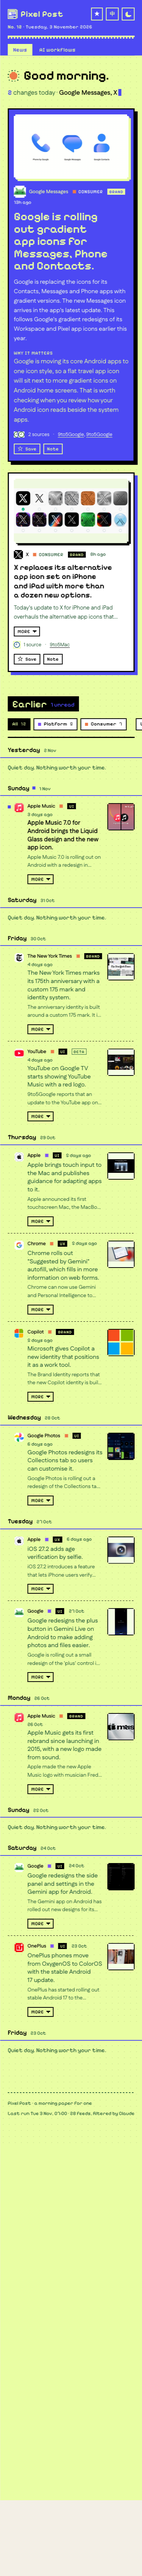
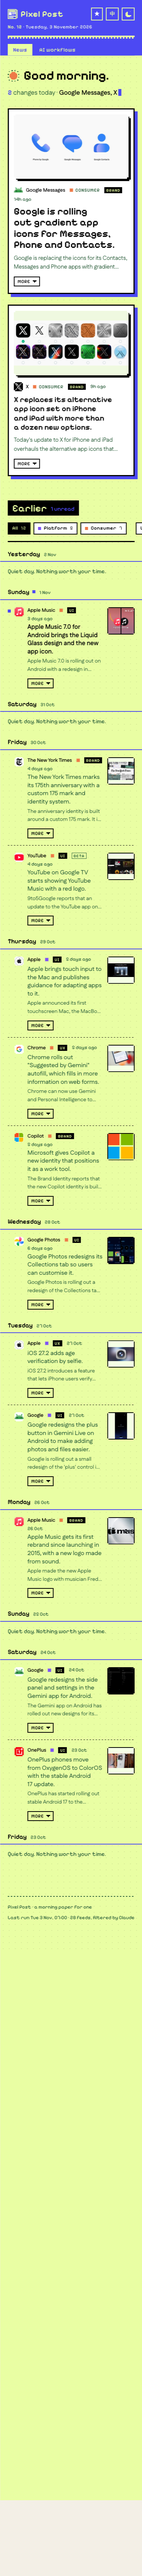
Same card for every story with More/Less; timeline tip centred; Save star and note box fixed; dark mode with a lime masthead and sky accent

diff --git a/site/styles.css b/site/styles.css
@@ -1,8 +1,8 @@
 /* Pixel Post: a morning paper for one, set in pixels.
    Pixelify Sans for display, Fustat for reading. Every colour comes from the reader's palette (Nov 2026), used loud:
-   a lime page, an indigo masthead band, black rules and borders, white cards with hard indigo pixel shadows, the
-   day's first story as an indigo block with lime type. Dark: black page, lime type and borders, the same indigo
-   band and lead. All text is at least 4.5:1 against what is behind it. */
+   a lime page, an indigo masthead band, black rules and borders, white cards with hard indigo pixel shadows,
+   and every story the same card. Dark: black page, lime type and borders, the masthead a lime band with black type,
+   sky for the accent and the pixel shadows. All text is at least 4.5:1 against what is behind it. */
 
 :root {
   --paper: #e9fea3; /* lime */
@@ -24,7 +24,7 @@
   --fill: #000000; /* solid buttons */
   --on-fill: #e9fea3;
   --tile: #ffffff; /* behind logos */
-  --band: #4c49f3; /* masthead and the lead story */
+  --band: #4c49f3; /* the masthead */
   --on-band: #e9fea3;
   --on-band-2: #f5ffe5;
   --on-band-mark: #ffffff;
@@ -50,22 +50,24 @@
   --ink-2: #f5ffe5; /* cream */
   --ink-3: #9cb8ad; /* sage, 9.9:1 */
   --line: #e9fea3;
-  --accent: #c2bafa; /* lavender, 11.7:1 */
+  --accent: #51b3f9; /* sky, 9.2:1: saturated, so it stands apart from the lime text */
   --accent-ink: var(--accent);
   --sun: #ee7a48;
   --ota: #51b3f9;
   --rail: #61c87a;
   --platform: #7f52f6;
   --consumer: #ee7a48;
-  --shadow: #4c49f3;
+  --shadow: #51b3f9; /* hard pixel shadows are sky, like the accent */
   --edge: #e9fea3;
   --fill: #e9fea3;
   --on-fill: #000000;
   --tile: #f5ffe5;
-  --band: #4c49f3;
-  --on-band: #e9fea3;
-  --on-band-2: #f5ffe5;
-  --on-band-mark: #ffffff;
+  /* The masthead turns over: a lime band with black type on the black page. */
+  --band: #e9fea3;
+  --on-band: #000000;
+  --on-band-2: #285b38; /* forest, 7.3:1 on lime */
+  --on-band-mark: #4c49f3; /* indigo: the logo square and the Saved star */
+  --band-shadow: #4c49f3;
   color-scheme: dark;
 }
 
@@ -303,6 +305,8 @@ button {
 }
 .note-editor .note-box {
   margin-top: 0;
+  /* The box fills the editor, so Save note (placed against the editor) sits inside the box's corner. */
+  max-width: none;
   padding-bottom: 46px;
   resize: none;
 }
@@ -323,10 +327,11 @@ button {
   opacity: 0.85;
 }
 .note-save:disabled {
-  background: var(--paper-2);
-  color: var(--ink-3);
+  background: transparent;
+  color: var(--ink);
+  box-shadow: inset 0 0 0 2px var(--ink);
   cursor: default;
-  opacity: 1;
+  opacity: 0.55;
 }
 /* A saved note, shown as text under the buttons. */
 .note-text {
@@ -720,9 +725,6 @@ button {
 .pattern + .story {
   background: repeating-linear-gradient(90deg, var(--line) 0 var(--px), transparent var(--px) calc(var(--px) * 2)) top / 100% 2px no-repeat;
 }
-.story.lead {
-  padding-top: 0;
-}
 .story-text {
   min-width: 0;
 }
@@ -837,21 +839,6 @@ button {
   mix-blend-mode: multiply;
 }
 
-.lead .meta {
-  margin-bottom: 14px;
-}
-.lead-headline {
-  margin: 0;
-  font: 600 clamp(28px, 3.6vw, 44px)/1.08 var(--display);
-  letter-spacing: -0.005em;
-  text-wrap: balance;
-}
-.lead-what {
-  margin: 16px 0 0;
-  font-size: 17px;
-  color: var(--ink-2);
-  max-width: 40em;
-}
 .why {
   margin: 18px 0 0;
   color: var(--ink);
@@ -865,12 +852,8 @@ button {
   text-transform: uppercase;
   color: var(--accent-ink);
 }
-.lead .why {
-  font-size: 16.5px;
-}
 
 .headline a,
-.lead-headline a,
 .row-title a {
   background-image: linear-gradient(currentColor 0 0);
   background-size: 0 2px;
@@ -879,7 +862,6 @@ button {
   transition: background-size 0.2s var(--step);
 }
 .headline a:hover,
-.lead-headline a:hover,
 .row-title a:hover {
   background-size: 100% 2px;
 }
@@ -1002,12 +984,10 @@ button {
 
 /* Lift on hover: the frame steps up and its shadow grows. */
 @media (hover: hover) {
-  .card:hover .frame::before,
-  .lead:hover .frame::before {
+  .card:hover .frame::before {
     transform: translate(calc(var(--px) * 2.5), calc(var(--px) * 2.5));
   }
-  .card:hover .frame > .notch,
-  .lead:hover .frame > .notch {
+  .card:hover .frame > .notch {
     transform: translate(calc(var(--px) * -0.5), calc(var(--px) * -0.5));
   }
 }
@@ -1646,8 +1626,7 @@ html:lang(zh-CN) .view-tab {
 .today {
   gap: 28px;
 }
-.story,
-.story.lead {
+.story {
   padding: clamp(20px, 2.6vw, 30px);
   background: var(--card);
   box-shadow:
@@ -1661,27 +1640,10 @@ html:lang(zh-CN) .view-tab {
 .story > .frame::before {
   background: var(--edge);
 }
-/* The first story is an indigo block with lime type. */
-.story.lead {
-  --ink: var(--on-band);
-  --ink-2: var(--on-band-2);
-  --ink-3: var(--on-band-2);
-  --line: var(--on-band);
-  --paper: var(--band);
-  --card: var(--band);
-  --accent-ink: var(--on-band);
-  --fill: var(--on-band);
-  --on-fill: var(--band);
-  color: var(--ink);
-  box-shadow:
-    inset 0 0 0 3px var(--edge),
-    calc(var(--px) * 2) calc(var(--px) * 2) 0 0 var(--edge);
-}
-.story.lead > .frame::before {
-  background: var(--on-band);
-}
-.lead-headline {
-  font-size: clamp(30px, 3.9vw, 50px);
+/* The day's first story: the same card, a larger headline. */
+.story:first-child .headline {
+  font-size: clamp(26px, 3vw, 36px);
+  line-height: 1.12;
 }
 .pattern {
   box-shadow:
@@ -1723,7 +1685,7 @@ html:lang(zh-CN) .view-tab {
 .masthead .digest-btn:hover {
   box-shadow:
     inset 0 0 0 2px var(--on-band),
-    3px 3px 0 0 #000000;
+    3px 3px 0 0 var(--band-shadow, #000000);
 }
 .chip {
   background: var(--card);
@@ -1751,10 +1713,6 @@ html:lang(zh-CN) .view-tab {
 .chev {
   color: currentColor;
 }
-.story.lead .more,
-.story.lead .act {
-  box-shadow: inset 0 0 0 2px var(--on-band);
-}
 .kind {
   color: var(--on-fill);
   background: var(--fill);
@@ -1768,6 +1726,13 @@ html:lang(zh-CN) .view-tab {
 .rail-fill {
   width: 4px;
   right: -17px;
+}
+/* The square at the tip, centred on the 4px line (the dotted line under it is 2px, centred the same). */
+.rail-fill::after {
+  left: -2px;
+  width: 8px;
+  height: 8px;
+  bottom: -4px;
 }
 
 /* ---------- smaller screens ---------- */
@@ -1783,7 +1748,6 @@ html:lang(zh-CN) .day-pattern b,
 html:lang(zh-CN) .chip {
   letter-spacing: 0;
 }
-html:lang(zh-CN) .lead-headline,
 html:lang(zh-CN) .headline {
   line-height: 1.32;
   letter-spacing: 0;
@@ -1860,17 +1824,13 @@ html:lang(zh-CN) .row-title {
     gap: 12px;
   }
   /* Phones: each card stacks its own picture above its own text, inside the card. */
-  .story,
-  .story.lead {
+  .story {
     grid-template-columns: minmax(0, 1fr);
     padding: 16px 16px 20px;
   }
   .story > .frame {
     order: -1;
     margin-bottom: 18px;
-  }
-  .lead-what {
-    font-size: 16px;
   }
   .pattern {
     padding: 18px;

diff --git a/site/app.js b/site/app.js
@@ -535,35 +535,27 @@ function media(item, { reveal = false, ratio } = {}) {
 /* ---------- today ---------- */
 
 /*
- * Every story today is one row: its text on the left, its own picture on the right, so a picture can never sit
- * beside another story's text. The first story is the same row, larger. Phones stack each picture above its text.
+ * Every story today is the same card: its text on the left, its own picture on the right. The summary shows two
+ * lines; More opens why it matters, the sources and Save / Note, with Less at the very end. Phones stack each
+ * picture above its text.
  */
-function leadHtml(item) {
-  return `<article class="story lead reveal" data-id="${esc(item.id)}">
-    <div class="story-text">
-      ${metaRow(item, true)}
-      <h2 class="lead-headline"><a href="${esc(safeUrl(item.sources?.[0]?.url))}" target="_blank" rel="noopener" data-read="${esc(item.id)}">${esc(txt(item, 'headline'))}</a></h2>
-      <p class="lead-what">${esc(txt(item, 'what'))}</p>
-      ${why(item)}
-      ${sources(item)}
-      ${actions(item)}
-    </div>
-    ${media(item, { reveal: true })}
-  </article>`;
-}
-
-function cardHtml(item) {
+function cardHtml(item, i) {
+  const h = i === 0 ? 'h2' : 'h3';
   return `<article class="story card reveal" data-id="${esc(item.id)}">
     <div class="story-text">
       ${metaRow(item)}
-      <h3 class="headline"><a href="${esc(safeUrl(item.sources?.[0]?.url))}" target="_blank" rel="noopener" data-read="${esc(item.id)}">${esc(txt(item, 'headline'))}</a></h3>
+      <${h} class="headline"><a href="${esc(safeUrl(item.sources?.[0]?.url))}" target="_blank" rel="noopener" data-read="${esc(item.id)}">${esc(txt(item, 'headline'))}</a></${h}>
       <p class="what clamp">${esc(txt(item, 'what'))}</p>
       <div class="fold">
-        <div class="more-body" id="more-${esc(item.id)}" hidden><div class="more-in">${why(item)}</div></div>
+        <div class="more-body" id="more-${esc(item.id)}" hidden>
+          <div class="more-in">
+            ${why(item)}
+            ${sources(item)}
+            ${actions(item)}
+          </div>
+        </div>
         ${moreBtn(`more-${item.id}`)}
       </div>
-      ${sources(item)}
-      ${actions(item)}
     </div>
     ${media(item, { reveal: true })}
   </article>`;
@@ -593,8 +585,8 @@ function renderToday(day) {
     el.innerHTML = quietHtml(day);
     return;
   }
-  const [lead, ...rest] = day.items;
-  el.innerHTML = [leadHtml(lead), day.pattern ? patternHtml(patternOf(day)) : '', ...rest.map(cardHtml)].join('');
+  const cards = day.items.map(cardHtml);
+  el.innerHTML = [cards[0], day.pattern ? patternHtml(patternOf(day)) : '', ...cards.slice(1)].join('');
 }
 
 /* ---------- archive ---------- */

diff --git a/README.md b/README.md
@@ -189,4 +189,4 @@ src/compare.ts        picks each item's picture (and before/after pairs)
 
 **Saved.** Every item has a **star** and a **note**: type it, then **Save note** (inside the box) or Cmd+Enter; the box closes and the note shows under the item, with **Edit note** to change it. The **Saved** button (top right) lists the week's starred items with their notes and a **Remove** button, a week at a time. Stars and notes are kept in your browser only, so they don't follow you to another device. Share links sent before November 2026 still open, read-only.
 
-English by default, with a **中 / EN** switch (top right) that changes everything on the page, including dates and each item's write-up, and is remembered in your browser. Items written before the Chinese write-ups were added (before 30 Oct 2026) stay in English. Light by default, with a dark mode toggle next to it. Each item has a **UI**, **UX** or **Brand** label, and the archive can be filtered by it. Pixelify Sans for headlines, Fustat for reading. Colours come from one palette, used boldly: a lime page (#E9FEA3) with black type and thick black rules; the masthead is an indigo band (#4C49F3) with lime type; today's stories are white cards with a black border and a hard indigo pixel shadow, and the day's first story is an indigo block with lime type. Buttons and chips are black-bordered, solid black when on. Dark mode keeps the indigo band and lead on a black page, with lime type and borders and lavender (#C2BAFA) for the accent. Category dots: OTA sky, rail green, platform violet, consumer orange. All text meets 4.5:1 contrast in both themes. The variables are at the top of `site/styles.css`; the bold parts (band, cards, buttons) are in its "identity" section. The timeline fills with the accent as you scroll. The logo is a pixel newspaper whose lines print in. Cards, dates and archive rows print in as they scroll into view, and images arrive blocky and sharpen in a few steps; items without an image show their app icon as a pixel mosaic. Unread dots mark items collected since your previous visit (kept in your browser's localStorage) and clear when you open an item. Motion is switched off when your system asks for reduced motion.
+English by default, with a **中 / EN** switch (top right) that changes everything on the page, including dates and each item's write-up, and is remembered in your browser. Items written before the Chinese write-ups were added (before 30 Oct 2026) stay in English. Light by default, with a dark mode toggle next to it. Each item has a **UI**, **UX** or **Brand** label, and the archive can be filtered by it. Pixelify Sans for headlines, Fustat for reading. Colours come from one palette, used boldly: a lime page (#E9FEA3) with black type and thick black rules; the masthead is an indigo band (#4C49F3) with lime type; every story today is the same white card with a black border and a hard indigo pixel shadow, the first one with a larger headline. A card shows its headline and a two-line summary; More opens why it matters, the sources and Save / Note, with Less at the very end. Buttons and chips are black-bordered, solid black when on. Dark mode turns the masthead over (a lime band with black type) on a black page, with lime type and borders, dark grey cards, and sky (#51B3F9) for the accent, the timeline and the pixel shadows. Category dots: OTA sky, rail green, platform violet, consumer orange. All text meets 4.5:1 contrast in both themes. The variables are at the top of `site/styles.css`; the bold parts (band, cards, buttons) are in its "identity" section. The timeline fills with the accent as you scroll. The logo is a pixel newspaper whose lines print in. Cards, dates and archive rows print in as they scroll into view, and images arrive blocky and sharpen in a few steps; items without an image show their app icon as a pixel mosaic. Unread dots mark items collected since your previous visit (kept in your browser's localStorage) and clear when you open an item. Motion is switched off when your system asks for reduced motion.
